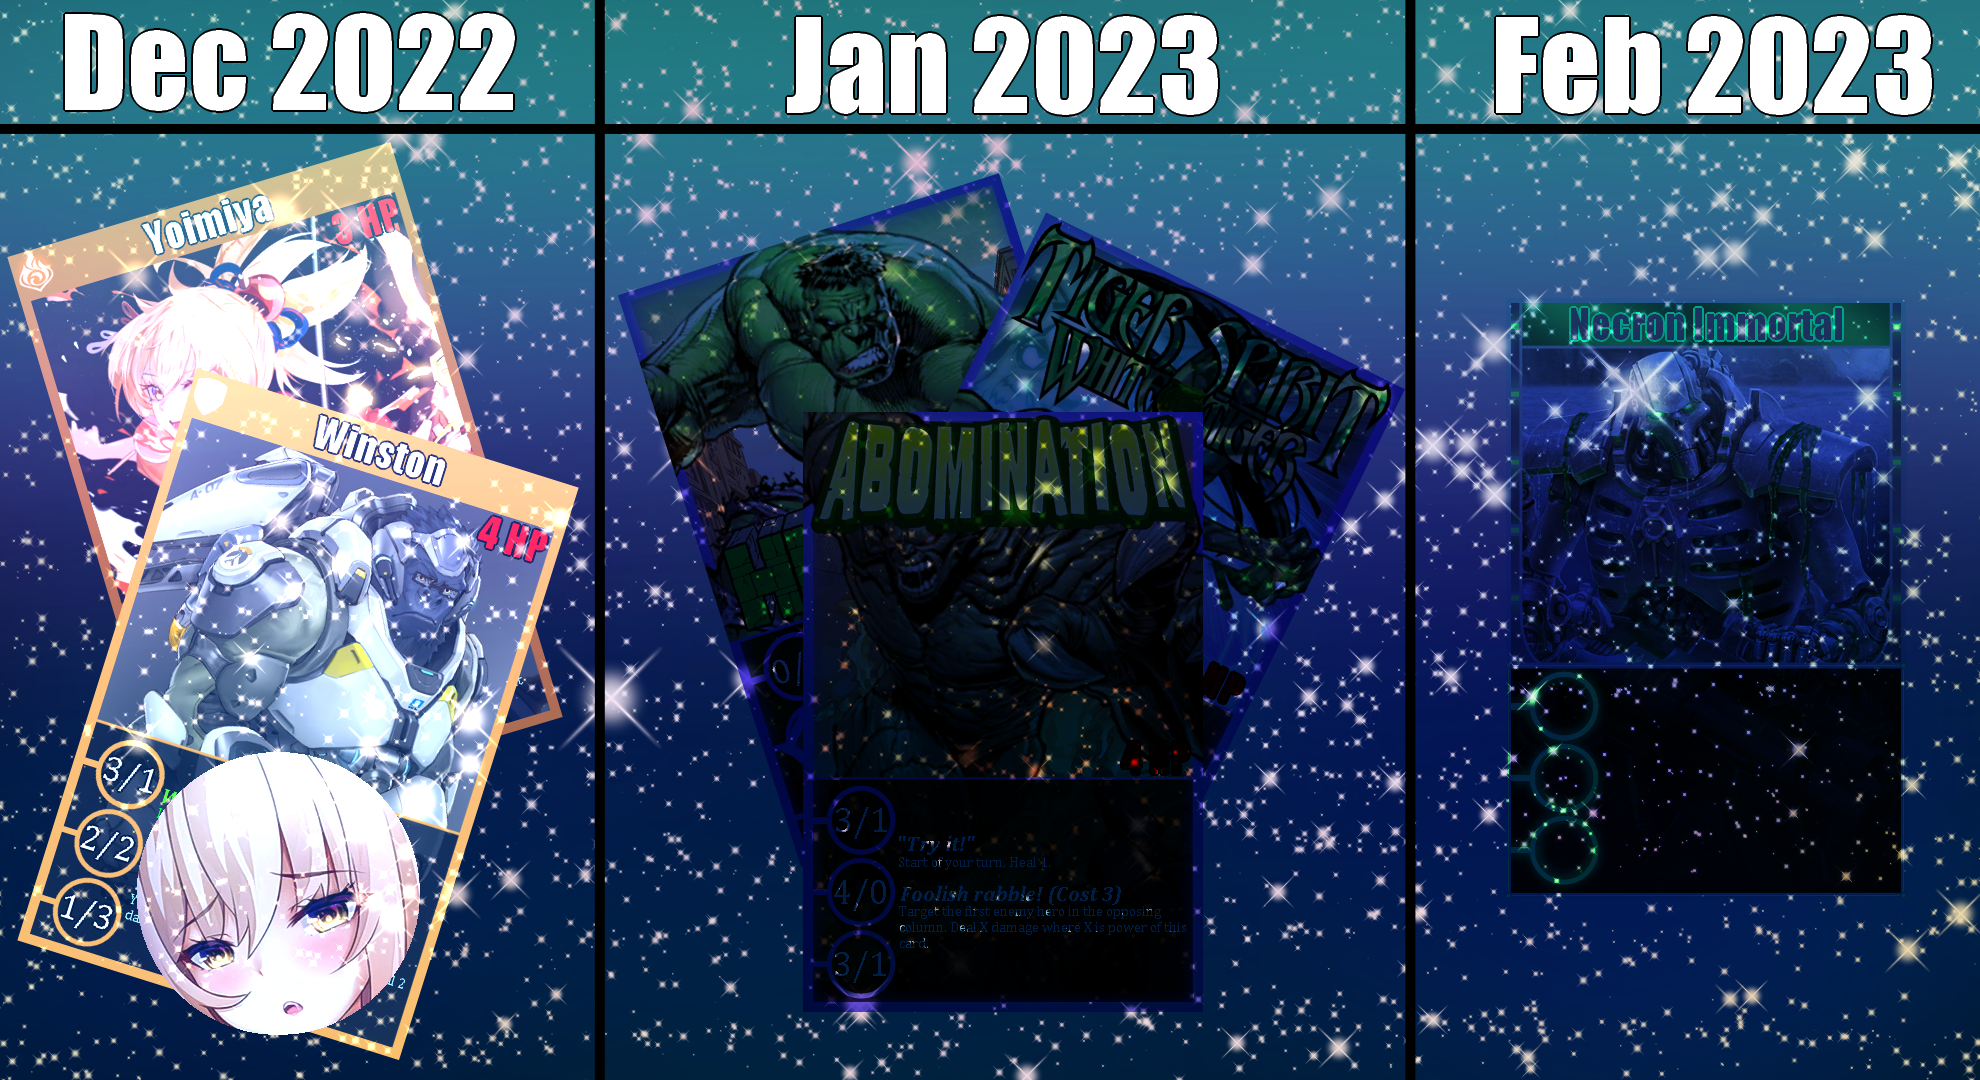
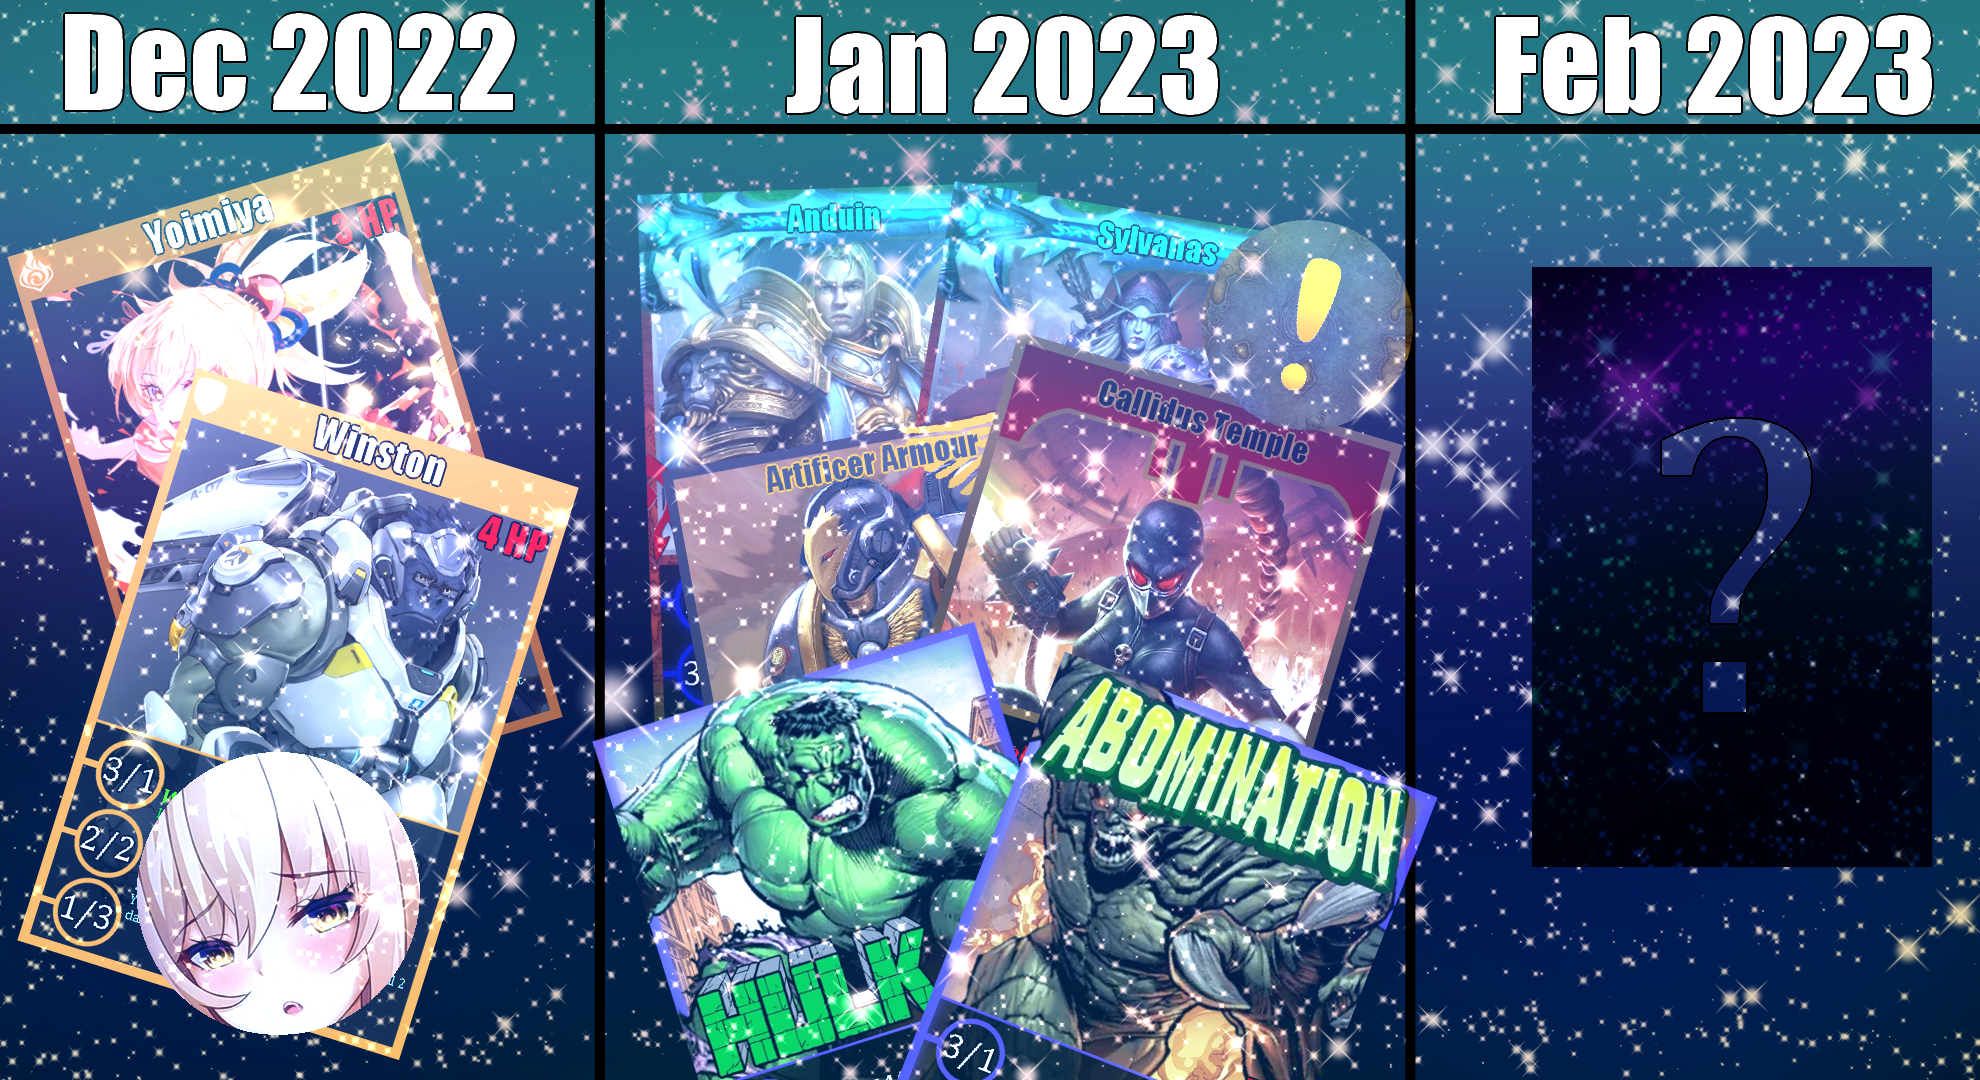
update

diff --git a/js/data/cards.js b/js/data/cards.js
@@ -108,5 +108,161 @@ allCards = {
             'gorou',
             'heizou',
         ]
-    }
+    },
+    marvelSet1: {
+        SetName: "Marvel Set 1",
+        FolderName: 'marvelSet1',
+        names: [
+            "wolfsbane",
+            "abomination",
+            "America Chavez",
+            "angel",
+            "angela",
+            "apocalypse",
+            "armor",
+            "bishop",
+            "blade",
+            "cable",
+            "cyclops",
+            "hawkeye",
+            "hulk",
+            "iron man",
+            "jessica jones",
+            "kazar",
+            "medusa",
+            "mister fantastic",
+            "misty knight",
+            "nightcrawler",
+            "odin",
+            "quicksliver",
+            "sentinel token",
+            "sentinel",
+            "shocker",
+            "spectrum",
+            "star lord",
+            "the punisher",
+            "the thing",
+            "tiger spirit white tiger",
+            "tiger spirit",
+            "white tiger",
+        ]
+    },
+    warhammer40kSet1: {
+        SetName: "40k Set 1",
+        FolderName: '40kSet1',
+        names: [
+            "Artificer Armour",
+            "attack bikes",
+            "Autocannon  GIG",
+            "Baneblade",
+            "Blood Claw",
+            "Bloodangle Captain",
+            "Breacher IG",
+            "Callidus Temple",
+            "Cataphract Class Robot",
+            "chaplain",
+            "Commissar",
+            "Conqueror Class Robot",
+            "Crusader Class Robot",
+            "Culexus Temple",
+            "Dino Rough Rider",
+            "Dreadnought",
+            "Eversor Temple",
+            "Firstborn Adeptus Astartes",
+            "freki",
+            "geri",
+            "Grey Hunter",
+            "Guardsman",
+            "IG Medic",
+            "IG Sentry",
+            "IGSG5 Sentinel",
+            "Imperial Assassin",
+            "Imperial Guardsmen",
+            "Inquisitor",
+            "Iron Priest",
+            "jetbike",
+            "Kastelan Robot",
+            "Krieg Death Rider",
+            "Land Raider",
+            "land speeder",
+            "Leman Russ",
+            "Librarian",
+            "Longfang",
+            "Lord Macragge",
+            "medics",
+            "Njal Stormcaller",
+            "Ogryn",
+            "Ordo Malleus",
+            "Predator",
+            "Primaris Captain",
+            "Ragnar Blackmane",
+            "Rhino",
+            "Scount",
+            "Sebastian Yarrick",
+            "Tank Imperial Guard",
+            "Tech priest",
+            "Techmarine",
+            "Terminator Armour",
+            "Ulrik the Slayer",
+            "Veteran",
+            "Vindicare Temple",
+            "Wolf Guard",
+        ]
+    },
+    wowSet1: {
+        SetName: "Wow Set 1",
+        FolderName: 'wowSet1',
+        names: [
+            "Alexstraza",
+        "Anduin",
+        "Archimonde",
+        "Argus",
+        "Baleog",
+        "Blackhand",
+        "Bolvar",
+        "Cenarius Corrupted",
+        "Cho'gall",
+        "Deathwing",
+        "Erik",
+        "G'huun",
+        "Grommash",
+        "Gul'dan",
+        "Helya",
+        "Hymdall",
+        "Hyrja",
+        "Illidan Stormrage",
+        "Jaina",
+        "Kael'thas",
+        "KilJaeden",
+        "King Rastakhan",
+        "Lei Shen",
+        "Lich King",
+        "Magtheridon",
+        "Malfurion",
+        "Medivh",
+        "Nefarian",
+        "N'zoth",
+        "Odyn",
+        "Olaf",
+        "Onyxia",
+        "Queen Azshara",
+        "Ragnaros",
+        "Raszageth The Storm-eater",
+        "Sargeras",
+        "Sindragosa Pure Form",
+        "Sindragosa",
+        "Sire Denathrius",
+        "Sylvanas",
+        "The Jailer",
+        "Tirion Fordrin",
+        "Tyrande",
+        "Ursoc",
+        "Uther",
+        "Varian",
+        "Velen",
+        "Whelps",
+        "Whitemane",
+        "Wraithon",
+        ]
+    },
 }
